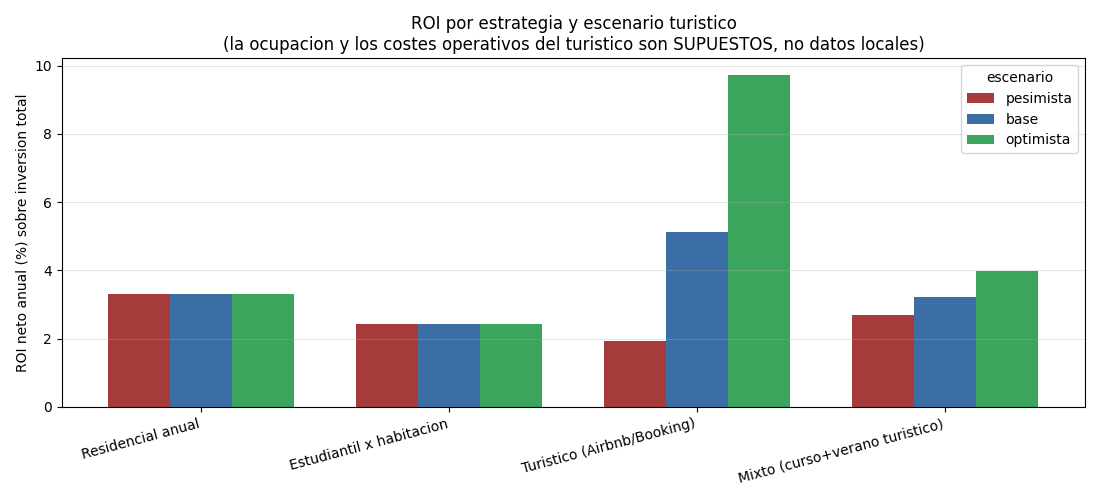
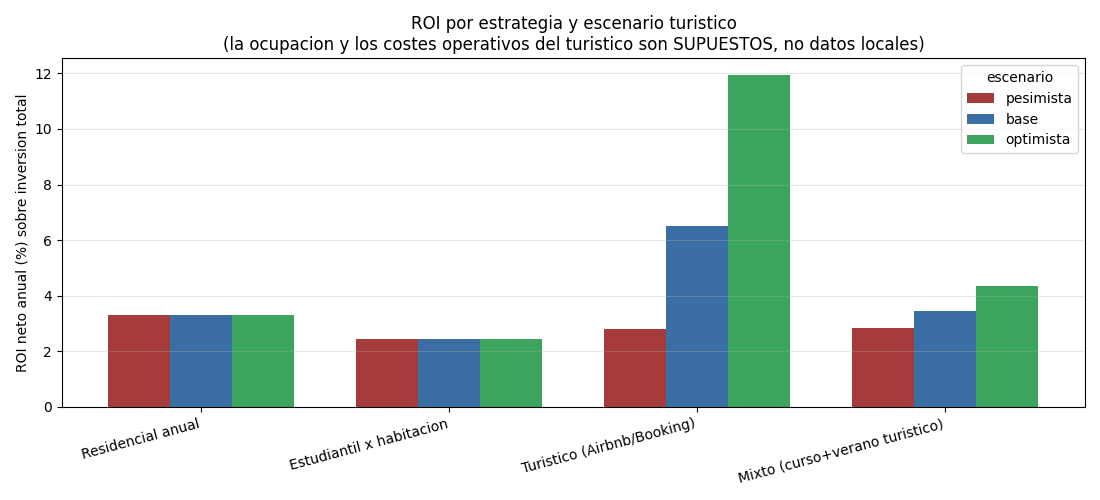
Amplia la muestra turistica: busqueda acotada por mapa al municipio, 3 fechas y Booking. Hallazgo: el parque turistico de SVR son mayoritariamente villas, solo 4 pisos comparables al arquetipo

diff --git a/scripts/limpieza_turistico_ampliado.py b/scripts/limpieza_turistico_ampliado.py
@@ -1,0 +1,144 @@
+"""
+Limpieza y analisis de la captura turistica AMPLIADA (2026-09-01).
+
+Motivo: la muestra anterior tenia n=7 para el precio/noche de vivienda
+completa, insuficiente para deducir nada, y ademas mezclaba anuncios de
+Alicante capital porque la busqueda de Airbnb por texto "San Vicente del
+Raspeig" devuelve >1.000 alojamientos, casi todos fuera del municipio.
+
+Que se hizo distinto en esta captura:
+  1. Busqueda ACOTADA POR MAPA a las coordenadas del municipio
+     (ne 38.43/-0.495, sw 38.375/-0.560) en vez de por texto -> solo entran
+     alojamientos realmente dentro de San Vicente del Raspeig.
+  2. Filtro "alojamiento entero" (entire_home) -> comparable a alquilar la
+     vivienda completa, que es la estrategia que se esta modelando.
+  3. TRES fechas distintas (feb / oct / jul) -> permite (a) mas observaciones
+     y (b) medir la estacionalidad REAL de precio en vez de asumirla, ya que
+     varias propiedades se repiten en las tres consultas.
+  4. Booking como segunda fuente para el mismo municipio y fechas.
+
+Salidas:
+  - limpio/turistico_ampliado_limpio.csv
+  - limpio/turistico_estacionalidad.csv  (misma propiedad en varias fechas)
+  - limpio/turistico_comparables_arquetipo.csv (solo pisos comparables al
+    arquetipo de 3 hab.)
+"""
+
+import os
+import re
+from pathlib import Path
+
+import pandas as pd
+
+SCRIPT_DIR = Path(__file__).resolve().parent
+RAW_DIR = SCRIPT_DIR.parent
+OUT_DIR = SCRIPT_DIR.parent / "limpio"
+
+# Tipos que NO son comparables a un piso estandar de 3 hab: producto distinto
+# (villa/chalet con piscina para grupos grandes) o demasiado pequenos.
+TIPOS_VILLA = {"Villa", "Chalet", "Adosado", "Casa rural"}
+
+# El tipo que declara el portal no basta: Airbnb etiqueta "Vivienda" a
+# "Villa Mulet con piscina exotica para 8 personas", que evidentemente NO es
+# comparable a un piso estandar. Se mira tambien el nombre del anuncio.
+PALABRAS_VILLA = ("villa", "chalet", "casa lulu", "casa abedul", "bungalow", "casa de campo", "casa rural")
+
+
+def es_villa(row):
+    nombre = str(row["nombre"]).lower()
+    if any(p in nombre for p in PALABRAS_VILLA):
+        return True
+    if row["tipo_alojamiento"] in TIPOS_VILLA:
+        return True
+    return bool(row["dormitorios"] >= 5)
+
+
+def cargar():
+    df = pd.read_csv(RAW_DIR / "turistico_san_vicente_raw_2026-09-01.csv", sep=";", dtype=str)
+    df["dormitorios"] = pd.to_numeric(df["dormitorios"], errors="coerce")
+    df["camas"] = pd.to_numeric(df["camas"], errors="coerce")
+    df["banos"] = pd.to_numeric(df["banos"], errors="coerce")
+    df["m2"] = pd.to_numeric(df["m2"], errors="coerce")
+    df["noches"] = pd.to_numeric(df["noches"], errors="coerce")
+    df["precio_total_eur"] = pd.to_numeric(df["precio_total_eur"], errors="coerce")
+    df["valoracion"] = pd.to_numeric(df["valoracion"], errors="coerce")
+    df["num_valoraciones"] = pd.to_numeric(df["num_valoraciones"], errors="coerce")
+    df["precio_noche"] = (df["precio_total_eur"] / df["noches"]).round(1)
+    df["es_villa_o_chalet"] = df.apply(es_villa, axis=1)
+    return df
+
+
+def comparables_arquetipo(df):
+    """
+    Comparable al arquetipo del proyecto = piso/apartamento/vivienda entera,
+    3-4 dormitorios, en San Vicente. Se excluyen villas y chalets (producto
+    distinto: grupos grandes, piscina privada, precio por noche que no tiene
+    nada que ver con alquilar un piso normal) y los loft/estudios de 1 dorm.
+    """
+    return df[(df["en_san_vicente"] == "si") &
+              (~df["es_villa_o_chalet"]) &
+              (df["dormitorios"].between(3, 4))].copy()
+
+
+def estacionalidad(df):
+    """Propiedades que aparecen en mas de una fecha -> variacion real de precio
+    por temporada, medida sobre la MISMA vivienda (no comparando viviendas
+    distintas entre si, que seria enganoso)."""
+    sv = df[df["en_san_vicente"] == "si"]
+    piv = sv.pivot_table(index=["nombre", "es_villa_o_chalet"], columns="temporada",
+                         values="precio_noche", aggfunc="first")
+    piv = piv.dropna(thresh=2)  # al menos 2 temporadas observadas
+    if "alta (jul)" in piv.columns and "baja (feb)" in piv.columns:
+        piv["variacion_jul_vs_feb_pct"] = ((piv["alta (jul)"] / piv["baja (feb)"] - 1) * 100).round(1)
+    return piv.reset_index()
+
+
+def main():
+    os.makedirs(OUT_DIR, exist_ok=True)
+    df = cargar()
+
+    sv = df[df["en_san_vicente"] == "si"]
+    fuera = df[df["en_san_vicente"] != "si"]
+    print(f"Observaciones totales de la captura: {len(df)}")
+    print(f"  En San Vicente del Raspeig: {len(sv)}  |  Fuera del municipio (descartadas): {len(fuera)}")
+    print(f"  Propiedades unicas en San Vicente: {sv['nombre'].nunique()}")
+    print()
+
+    print("--- Composicion del parque turistico de San Vicente (alojamiento entero) ---")
+    comp = sv.drop_duplicates("nombre")
+    print(comp.groupby("es_villa_o_chalet")["nombre"].count().rename(
+        index={True: "villa/chalet/adosado (>=5 dorm o tipo villa)", False: "piso/apartamento/loft"}))
+    print()
+    print("Propiedades unicas por tipo:")
+    print(comp.groupby("tipo_alojamiento")["nombre"].count())
+    print()
+
+    comparables = comparables_arquetipo(df)
+    print("--- Comparables al arquetipo (piso entero de 3-4 dorm. en San Vicente) ---")
+    print(comparables[["fuente", "temporada", "nombre", "dormitorios", "m2", "precio_noche"]].to_string(index=False))
+    print()
+    print(f"n comparables (observaciones): {len(comparables)}  |  propiedades unicas: {comparables['nombre'].nunique()}")
+    if len(comparables):
+        print(f"Precio/noche  mediana: {comparables['precio_noche'].median():.0f} EUR  "
+              f"| media: {comparables['precio_noche'].mean():.0f} EUR  "
+              f"| rango: {comparables['precio_noche'].min():.0f}-{comparables['precio_noche'].max():.0f} EUR")
+        sin_piscina = comparables[~comparables["nombre"].str.contains("piscina", case=False, na=False)]
+        print(f"Excluyendo el que tiene piscina en azotea (producto premium), n={len(sin_piscina)}: "
+              f"mediana {sin_piscina['precio_noche'].median():.0f} EUR/noche "
+              f"(rango {sin_piscina['precio_noche'].min():.0f}-{sin_piscina['precio_noche'].max():.0f})")
+    print()
+
+    est = estacionalidad(df)
+    print("--- Estacionalidad REAL medida sobre la misma propiedad ---")
+    print(est.to_string(index=False))
+    print()
+
+    df.to_csv(OUT_DIR / "turistico_ampliado_limpio.csv", sep=";", index=False)
+    comparables.to_csv(OUT_DIR / "turistico_comparables_arquetipo.csv", sep=";", index=False)
+    est.to_csv(OUT_DIR / "turistico_estacionalidad.csv", sep=";", index=False)
+    print(f"Guardado en {OUT_DIR}: turistico_ampliado_limpio.csv | "
+          f"turistico_comparables_arquetipo.csv | turistico_estacionalidad.csv")
+
+
+if __name__ == "__main__":
+    main()

diff --git a/scripts/modelo_financiero.py b/scripts/modelo_financiero.py
@@ -165,7 +165,22 @@ def cargar_arquetipo(verbose=True):
     arquetipo_venta = venta[(venta["habitaciones"] == 3) & (venta["m2"].between(70, 130)) &
                              (~venta["es_outlier_lujo"])]
     ua_hab = ua[ua["tipo_oferta_simplificado"] == "habitacion"]["precio_num"]
-    tur_completa = turistico[turistico["categoria"] == "vivienda_completa"]["precio_noche"]
+
+    # Precio turistico: se prefiere la captura ampliada de 2026-09-01 (busqueda
+    # acotada por mapa al municipio + filtro alojamiento entero + 3 fechas), que
+    # ademas separa villas/chalets de pisos. Solo se usan los PISOS de 3-4 dorm.
+    # y se excluye el que tiene piscina en azotea (producto premium), porque el
+    # arquetipo del proyecto es un piso estandar sin piscina.
+    # Si ese fichero no existe, se cae a la captura antigua (n=7, peor).
+    comparables_path = LIMPIO_DIR / "turistico_comparables_arquetipo.csv"
+    if comparables_path.exists():
+        comp = pd.read_csv(comparables_path, sep=";")
+        comp = comp[~comp["nombre"].str.contains("piscina", case=False, na=False)]
+        tur_completa = comp["precio_noche"]
+        origen_turistico = "turistico_comparables_arquetipo.csv (pisos 3-4 dorm., sin piscina)"
+    else:
+        tur_completa = turistico[turistico["categoria"] == "vivienda_completa"]["precio_noche"]
+        origen_turistico = "turistico_precios_limpio.csv (captura antigua)"
 
     datos = {
         "precio_compra": arquetipo_venta["precio"].median(),
@@ -176,6 +191,7 @@ def cargar_arquetipo(verbose=True):
         "n_habitacion": int(ua_hab.count()),
         "precio_noche_turistico": tur_completa.median(),
         "n_turistico": int(tur_completa.count()),
+        "origen_turistico": origen_turistico,
     }
 
     if verbose:
@@ -186,6 +202,7 @@ def cargar_arquetipo(verbose=True):
         print(f"Alquiler residencial ............ {datos['precio_residencial_mes']:>10,.0f} EUR/mes        (mediana, n={datos['n_residencial']})")
         print(f"Alquiler por habitacion (UA) .... {datos['precio_habitacion_mes']:>10,.0f} EUR/hab./mes   (mediana, n={datos['n_habitacion']})")
         print(f"Precio/noche turistico .......... {datos['precio_noche_turistico']:>10,.0f} EUR/noche      (mediana, n={datos['n_turistico']})  <-- n pequeño, menos robusto")
+        print(f"    fuente del precio turistico: {datos['origen_turistico']}")
         print()
         print("=" * 78)
         print("BLOQUE 2 — SUPUESTOS (hipotesis del modelo, NO datos de San Vicente)")

diff --git a/eda_hallazgos.md b/eda_hallazgos.md
@@ -18,11 +18,46 @@ Todo lo que sigue distingue explícitamente dos cosas:
 | Precio de compra | 237.950 € | 22 | `venta_limpio.csv` |
 | Alquiler residencial | 990 €/mes | 39 | `alquiler_residencial_limpio.csv` |
 | Alquiler por habitación (UA) | 292 €/hab./mes | 28 | `ua_limpio.csv` |
-| Precio/noche turístico | 122 €/noche | **7** | `turistico_precios_limpio.csv` |
+| Precio/noche turístico | 145 €/noche | **4** | `turistico_comparables_arquetipo.csv` |
 
 El arquetipo se eligió por ser el más representativo en las tres fuentes: 46% del alquiler residencial, el grupo más numeroso en venta y el mayoritario en piso completo de la UA.
 
-**Atención al n=7 del precio turístico.** Es, con diferencia, la cifra menos robusta del modelo, y además alimenta la estrategia sobre la que gira toda la conclusión. Debe aparecer siempre con su n al lado, nunca sola.
+**Atención al n=4 del precio turístico.** Sigue siendo la cifra menos robusta del modelo y la que sostiene toda la conclusión. Debe aparecer siempre con su n al lado, nunca sola. La sección siguiente explica por qué ese n es tan bajo — y por qué no es un problema de método.
+
+## Por qué el n turístico es tan pequeño: el mercado, no la extracción
+
+Se hizo una segunda captura (2026-09-01) mucho mejor diseñada que la primera:
+
+- **Búsqueda acotada por coordenadas** del municipio en lugar de por texto. Buscar "San Vicente del Raspeig" en Airbnb devuelve *"más de 1.000 alojamientos"*, pero casi todos están en Alicante capital, San Juan o Mutxamel. Acotando por el rectángulo del municipio, el resultado real es **10-14 alojamientos enteros**.
+- **Filtro de alojamiento entero**, que es lo que corresponde a la estrategia modelada.
+- **Tres fechas** (febrero, octubre y julio), lo que multiplica las observaciones y, sobre todo, permite medir la estacionalidad sobre la misma vivienda.
+- **Booking como segunda fuente**: con filtro de apartamentos en el municipio, Booking encuentra literalmente **2 alojamientos** en San Vicente. Todo lo demás que muestra está a 3-9 km, en Alicante.
+
+Resultado: 26 observaciones en San Vicente, **16 propiedades únicas**. Y aquí está el hallazgo importante:
+
+| Composición del parque turístico (alojamiento entero) | Propiedades |
+|---|---|
+| Villas, chalets, adosados y casas rurales | **9** |
+| Pisos, apartamentos y lofts | 7 |
+
+**Más de la mitad del alquiler turístico de San Vicente son villas y chalets con piscina para grupos grandes**, no pisos. Coincide con el registro oficial VUT, que da una superficie media de 174 m² y 6,4 plazas. De los pisos, solo **5 propiedades** son de 3-4 dormitorios, y una de ellas tiene piscina en la azotea (producto premium, 199-279 €/noche según plataforma). Quedan **4 pisos realmente comparables** al arquetipo, con precios de 118 a 151 €/noche.
+
+Esto no es una limitación de la extracción: **es el tamaño real del mercado**. Y tiene una consecuencia de fondo para el proyecto: convertir un piso estándar de 90-100 m² en alquiler turístico en San Vicente significa entrar en un mercado donde casi no hay producto comparable, dominado por villas que compiten por otro tipo de cliente. Con 4 comparables no se puede hablar de "precio de mercado" en sentido estadístico; es un rango orientativo.
+
+### Estacionalidad real (medida, no asumida)
+
+Como varias propiedades aparecen en las tres fechas, se puede medir la variación de precio sobre la **misma vivienda**:
+
+| Propiedad | Feb | Jul | Variación |
+|---|---|---|---|
+| Villa Sensation Seasons (10 dorm.) | 1.006 €/n | 1.765 €/n | **+75%** |
+| Villa Mulet (3 dorm., piscina) | 271 €/n | 351 €/n | **+30%** |
+| Alojamiento rural con piscina | 157 €/n | 180 €/n | +15% |
+| Bungalow Navarro | 163 €/n | 163 €/n | 0% |
+| Apartamento 4 dorm. | 151 €/n | 150 €/n (oct) | −1% |
+| Loft junto a la Universidad | 105 €/n | 91 €/n (oct) | −13% |
+
+**Los pisos no tienen prima de verano; las villas sí.** Esto sugiere que la demanda turística de pisos en San Vicente no es de playa/vacaciones, sino ligada a la universidad (familias de visita, profesorado, congresos), que se reparte de otra forma a lo largo del año. Es un argumento para revisar la curva estacional asumida en `serie_temporal_estrategias.py`, que da al piso un pico de verano que los datos no respaldan.
 
 ### Inversión real
 
@@ -41,13 +76,13 @@ Este es el cambio más importante del modelo. El alquiler vacacional no es alqui
 |---|---|---|---|
 | Limpieza entre estancias | 3.283 € | 2.736 € | 2.528 € |
 | Suministros (los paga el propietario) | 1.800 € | 1.440 € | 1.200 € |
-| Mantenimiento / reposición | 1.406 € | 1.339 € | 1.375 € |
-| Gestión | 3.615 € | 2.678 € | 0 € |
-| Comisión de plataforma | 3.012 € | 3.213 € | 1.718 € |
-| **Total operativo** | **13.116 €** | **11.406 €** | **6.821 €** |
-| **% del ingreso bruto** | **65,3%** | **42,6%** | **19,8%** |
+| Mantenimiento / reposición | 1.670 € | 1.590 € | 1.633 € |
+| Gestión | 4.293 € | 3.180 € | 0 € |
+| Comisión de plataforma | 3.578 € | 3.816 € | 2.041 € |
+| **Total operativo** | **14.624 €** | **12.763 €** | **7.401 €** |
+| **% del ingreso bruto** | **61,3%** | **40,1%** | **18,1%** |
 
-Entre el 20% y el 65% del ingreso bruto turístico se va en costes operativos. El modelo anterior contaba un 10%. De ahí venía la sobreestimación.
+Entre el 18% y el 61% del ingreso bruto turístico se va en costes operativos. El modelo anterior contaba un 10%. De ahí venía la sobreestimación.
 
 Dos detalles que suelen pasarse por alto y que aquí sí están: en vacacional **los suministros los paga el propietario** (en residencial los paga el inquilino), y **la limpieza escala con la rotación** — a estancias más cortas, más limpiezas por el mismo número de noches ocupadas.
 
@@ -59,12 +94,12 @@ Los tres escenarios mueven a la vez ocupación y costes, porque son justo las va
 |---|---|---|---|
 | 1. Residencial anual | **3,30%** | 3,30% | 3,30% |
 | 2. Estudiantil x habitación | 2,44% | 2,44% | 2,44% |
-| 3. Turístico | 1,94% | **5,12%** | **9,73%** |
-| 4. Mixto (curso + verano) | 2,69% | 3,22% | 3,99% |
+| 3. Turístico | 2,80% | **6,51%** | **11,95%** |
+| 4. Mixto (curso + verano) | 2,84% | 3,45% | 4,36% |
 
 *(ROI neto anual sobre inversión total; tabla completa en `eda/comparativa_estrategias_escenarios.csv`)*
 
-**El resultado ya no es "el turístico gana".** En el escenario pesimista, el residencial es la mejor opción — el turístico cae al último puesto, porque sus costes fijos y operativos no bajan proporcionalmente cuando cae la ocupación.
+**El resultado ya no es "el turístico gana".** En el escenario pesimista el residencial es la mejor opción y el turístico queda por detrás incluso del mixto, porque sus costes fijos y operativos no bajan proporcionalmente cuando cae la ocupación. Solo a partir del escenario base el turístico despega, y en el optimista dobla holgadamente al residencial. Toda la distancia entre "3ª opción" y "mejor opción con diferencia" la explican dos supuestos que no están medidos: la ocupación y la estructura de costes.
 
 ### Umbrales de decisión
 
@@ -72,11 +107,11 @@ A partir de qué ocupación el turístico supera al residencial, según la estru
 
 | Estructura de costes | El turístico gana a partir de |
 |---|---|
-| Pesimista (gestión externalizada, estancias cortas, comisión alta) | **63,5%** de ocupación |
-| Base | **42,9%** de ocupación |
-| Optimista (autogestión, estancias largas, Airbnb split-fee) | **31,5%** de ocupación |
+| Pesimista (gestión externalizada, estancias cortas, comisión alta) | **50,5%** de ocupación |
+| Base | **35,2%** de ocupación |
+| Optimista (autogestión, estancias largas, Airbnb split-fee) | **26,2%** de ocupación |
 
-Esto es lo verdaderamente interesante del análisis: la decisión no depende solo de cuánta ocupación consigas, sino de **cómo gestiones los costes**. Con gestión externalizada necesitas casi dos tercios del año ocupado para batir a un alquiler residencial tranquilo; autogestionando, te basta con un tercio.
+Esto es lo verdaderamente interesante del análisis: la decisión no depende solo de cuánta ocupación consigas, sino de **cómo gestiones los costes**. Con gestión externalizada necesitas la mitad del año ocupado para batir a un alquiler residencial tranquilo; autogestionando, te basta con algo más de un cuarto.
 
 ## Estacionalidad y horizonte temporal
 
@@ -86,7 +121,7 @@ La serie mensual (`powerbi/flujo_mensual_estrategias.csv`, 30 años × 4 estrate
 - **Turístico**: curva estacional con pico en agosto, media anual igual a la del escenario.
 - **Residencial**: 95% todo el año (rotación de inquilinos).
 
-Payback sobre la inversión total, escenario base: turístico 19,7 años, mixto 28,2 años, residencial y estudiantil no la recuperan dentro de los 30 años analizados. El mixto adelanta al residencial en el mes 23.
+Payback sobre la inversión total, escenario base: turístico 15,4 años, mixto 28,9 años, residencial 30,3 años y estudiantil 41,0 años.
 
 Ojo: es **payback simple**. No incorpora valor temporal del dinero, inflación, revalorización del inmueble, valor residual ni coste de oportunidad. Sirve para comparar estrategias entre sí sobre la misma vivienda, no para juzgar si comprar es buena inversión frente a otras alternativas.
 
@@ -96,7 +131,7 @@ El turístico no tiene reducción de IRPF (tributa el 100% del rendimiento neto)
 
 ## Conclusión (condicional)
 
-> El alquiler turístico maximiza la rentabilidad **bajo escenarios de ocupación superiores al 31-64%** —según cómo se gestionen los costes operativos—, mientras que el alquiler residencial ofrece menor rentabilidad potencial (3,30%) pero mucha menor exposición a la estacionalidad, a los costes operativos y a la carga de gestión. El alquiler estudiantil por habitaciones, una vez se deja de asumir que se cobra los 12 meses, es la menos rentable de las cuatro (2,44%).
+> El alquiler turístico maximiza la rentabilidad **bajo escenarios de ocupación superiores al 26-51%** —según cómo se gestionen los costes operativos—, mientras que el alquiler residencial ofrece menor rentabilidad potencial (3,30%) pero mucha menor exposición a la estacionalidad, a los costes operativos y a la carga de gestión. El alquiler estudiantil por habitaciones, una vez se deja de asumir que se cobra los 12 meses, es la menos rentable de las cuatro (2,44%).
 >
 > La ocupación turística real de San Vicente del Raspeig **no está medida en este trabajo**: es el supuesto del que depende toda la conclusión.
 
@@ -107,7 +142,7 @@ El turístico no tiene reducción de IRPF (tributa el 100% del rendimiento neto)
 - Los costes operativos turísticos son estimaciones de mercado, no presupuestos pedidos a proveedores de la zona. Afinarlos requeriría pedir precios reales a una gestora y a un servicio de limpieza locales.
 - El IBI se estima aplicando el tipo oficial (0,767%) sobre un valor catastral supuesto al 55% del de mercado. El valor catastral real de una vivienda concreta puede diferir bastante.
 - No se incluye el coste de puesta a punto inicial (amueblar y equipar), que es sensiblemente mayor en turístico que en residencial y penalizaría más al turístico en los primeros años.
-- Muestra turística pequeña (n=7 para el precio del arquetipo).
+- Muestra turística muy pequeña (n=4 pisos comparables), pero no por defecto de método: es el tamaño real del mercado de pisos turísticos del municipio.
 - El umbral de 600 € que separa habitación de piso completo en los datos de la UA es una regla heurística calibrada sobre esta muestra concreta, no una verdad general.
 
 ## Cómo reproducir / ajustar
